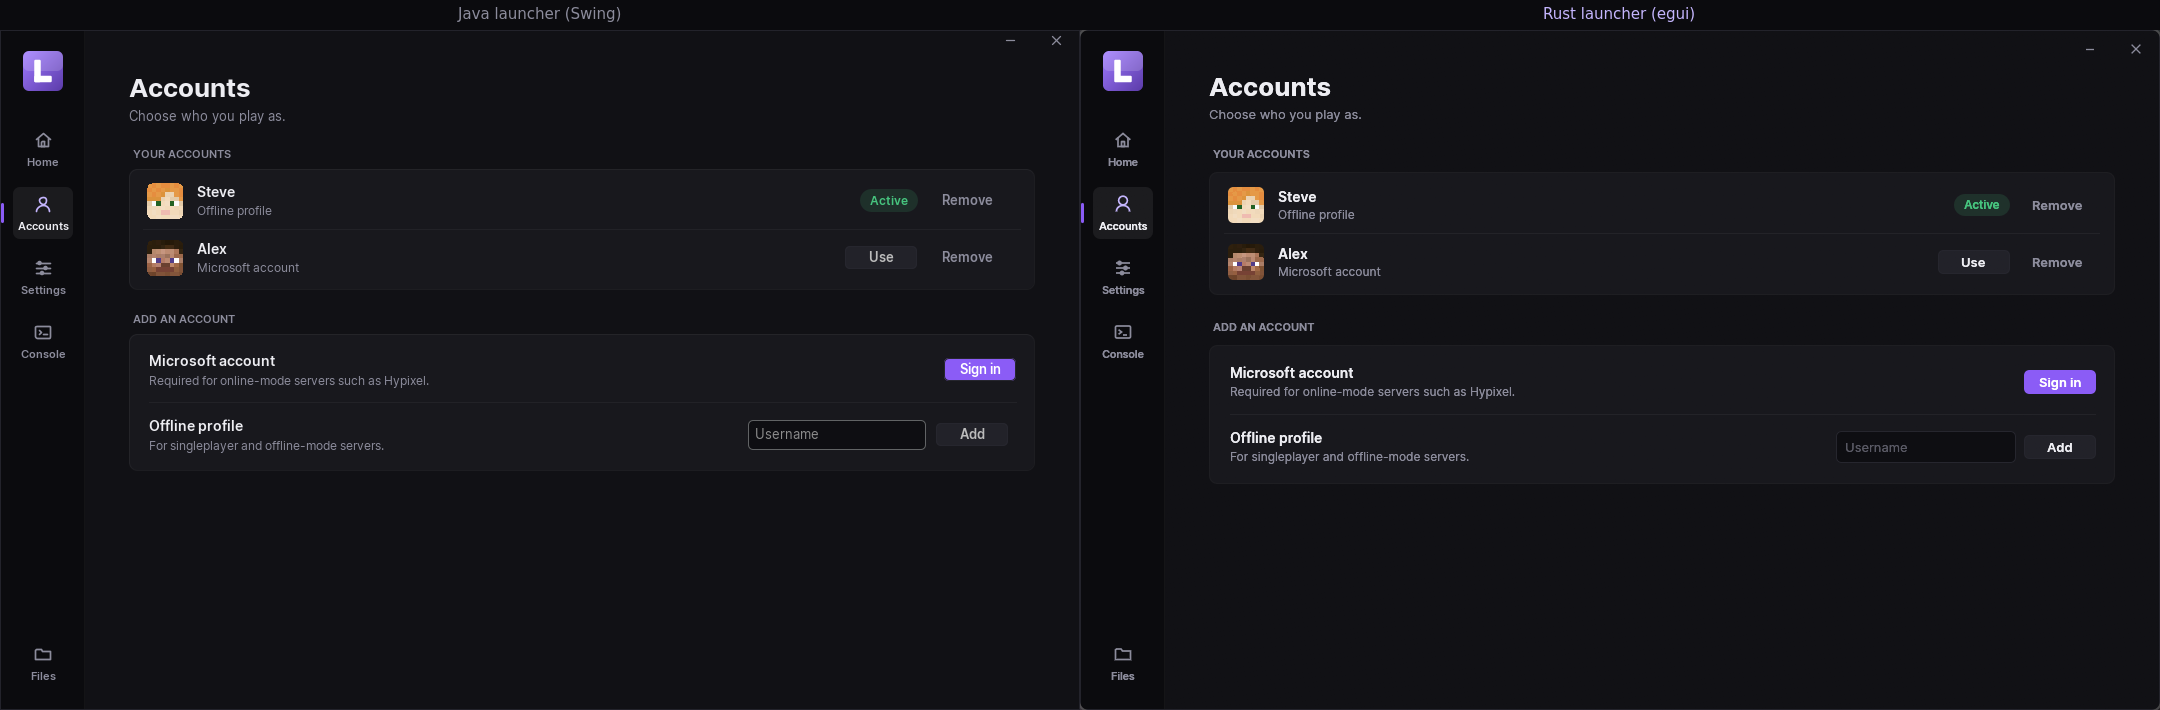
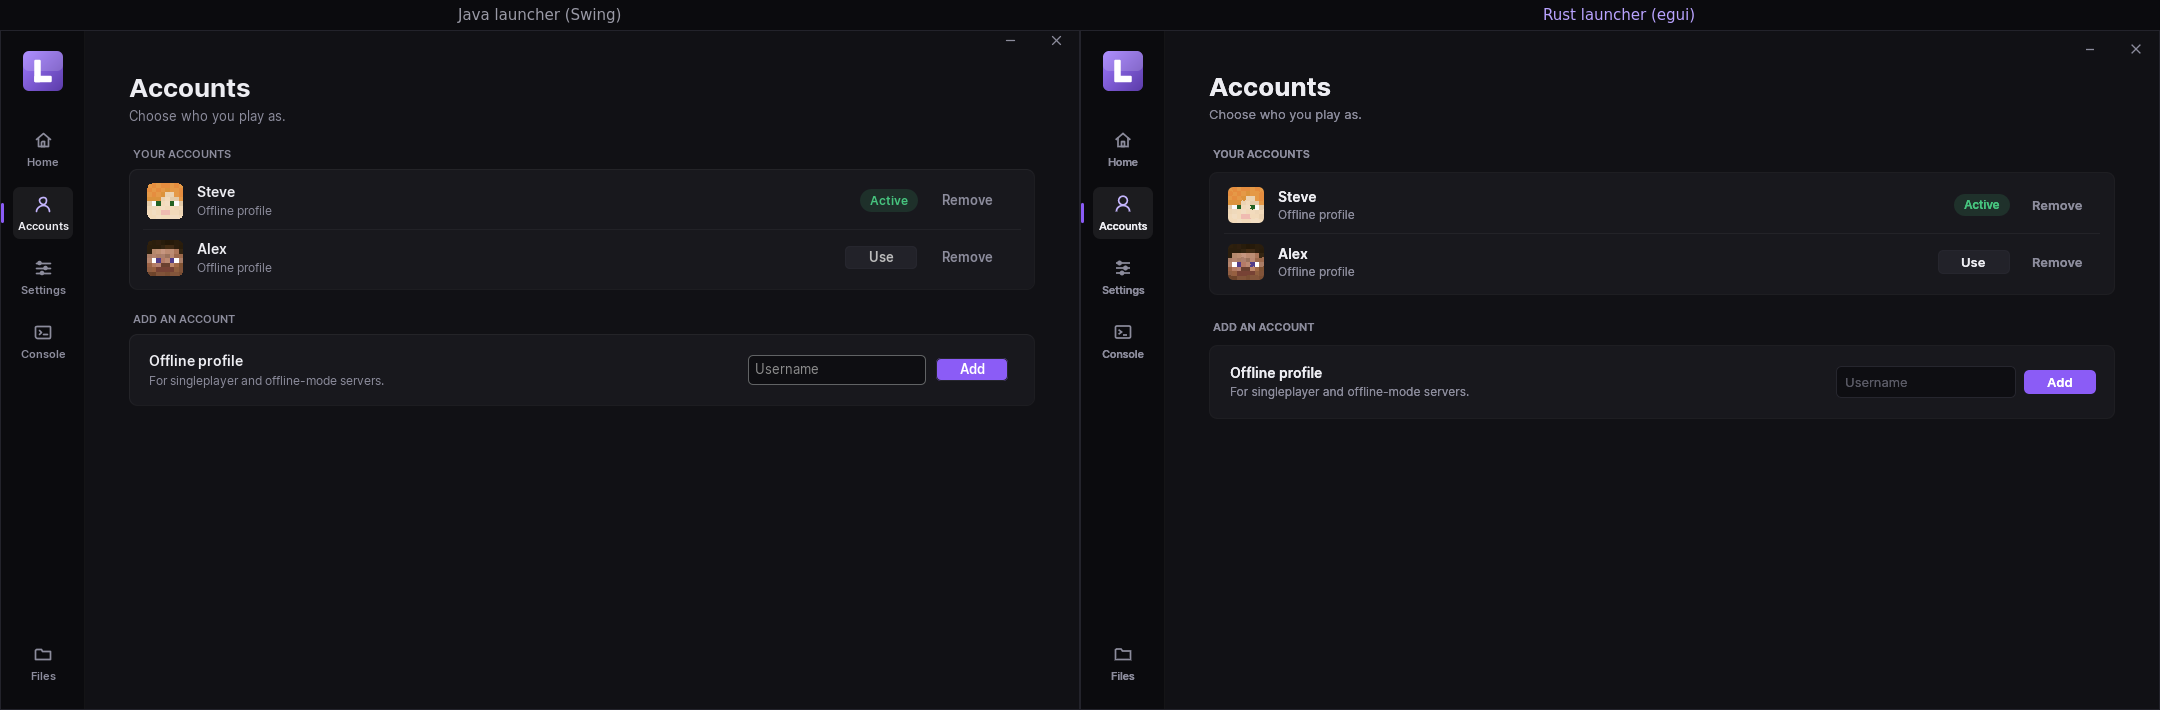
Review the launcher screenshots and update the Phase 3 exit list
The Accounts comparison is regenerated for the offline-only page (both launchers rendered under
Xvfb with the real game art). Screenshot review and the first CI run are done; Microsoft sign-in
and the keyring are dropped; testing on Sway, KDE and GNOME remains.

diff --git a/docs/rebuild/REBUILD_PLAN.md b/docs/rebuild/REBUILD_PLAN.md
@@ -85,12 +85,12 @@ Each phase ends with its exit criteria green in CI. No phase starts on a red bui
 
   RSS is not the hoped-for ~30 MB. About 85 MB of it is the NVIDIA OpenGL driver mapped into the process, the price of the GPU pan. Ten minutes idle on Home: no memory growth, 2.3% CPU on average. (The end-of-run RSS was lower, but concurrent compilation was reclaiming pages at the time, so that figure is not a result.)
 
-  Left before exit:
-  1. Human review of `screenshots/` (Java vs Rust per page). Known difference: toggle switches instead of Java's checkboxes.
-  2. Test on Sway, KDE and GNOME (only Hyprland is available on the development machine).
-  3. A first CI run. UI snapshots were recorded on NVIDIA; CI renders with Mesa lavapipe and must match within egui's default tolerance.
-  4. Live Microsoft sign-in, which needs the approved Azure client ID; the flow is tested against a mock server.
-  5. The OS keyring for refresh tokens, deliberately deferred to Phase 4: both launchers must read the same `accounts.json` while they ship side by side.
+  Exit items (updated 2026-11-23):
+  1. ✅ Screenshot review (`screenshots/`, Java vs Rust per page), done by Claude at the user's request. Home and Console match. Accepted differences: toggle switches instead of checkboxes, plain number fields instead of spinners, the JVM arguments field shows its start, and the decimal separator ("3.0 GB" vs the Java launcher following the system locale). `accounts.png` was regenerated after the offline-only change, both sides rendered under Xvfb with the real game art.
+  2. ⏳ Test on Sway, KDE and GNOME. Still open: only Hyprland is installed, and installing compositors needs root. Each can run headless for a test (`WLR_BACKENDS=headless sway`, `kwin_wayland --virtual`, `mutter --headless`).
+  3. ✅ CI: all jobs green on GitHub, including the UI snapshots under Mesa lavapipe (recorded on NVIDIA) and the end-to-end game boot on Ubuntu 22.04.
+  4. ➖ Dropped: Microsoft sign-in was removed on 2026-11-23 (offline profiles only).
+  5. ➖ Dropped: no tokens are stored any more, so no OS keyring is needed.
 
   Found on the way: A20, the Java Settings page overflowing the window, now fixed with a regression test.
 
@@ -108,4 +108,3 @@ Each phase ends with its exit criteria green in CI. No phase starts on a red bui
 | Rust UI toolkit misbehaves on Wayland/tiling WMs (the Java launcher needed workarounds) | Spike in Phase 3 week 1 on Hyprland, Sway, KDE and GNOME before committing to a toolkit |
 | Settings/account migration loses data | Rust reads the Java formats. The first save backs up the original. Golden tests use real files. |
 | LWJGL patch needs a bytecode library in Rust | Not needed: LWJGL for 1.8.9 is a single pinned jar (BSD licence). Pre-build the patched `LinuxMouse.class` at build time, verify the input jar's SHA-1 at runtime, and splice. |
-| Microsoft sign-in still needs a Mojang-approved Azure client ID | Unchanged by the rewrite. Documented in DEVELOPMENT.md. |
